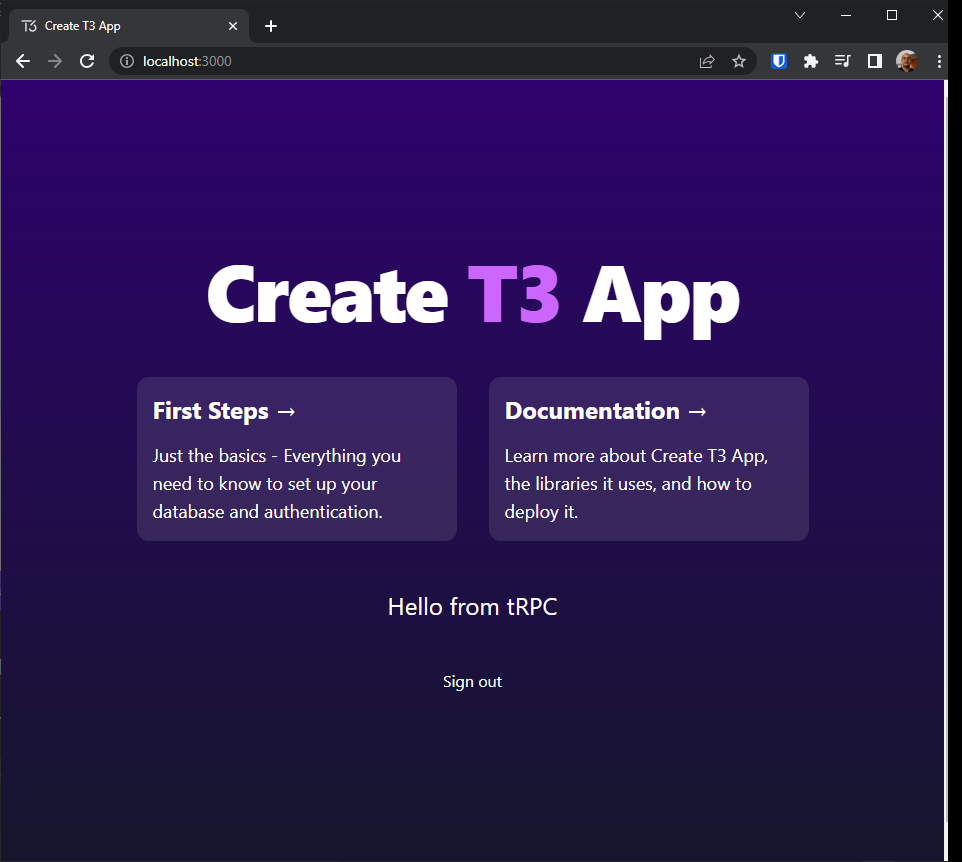
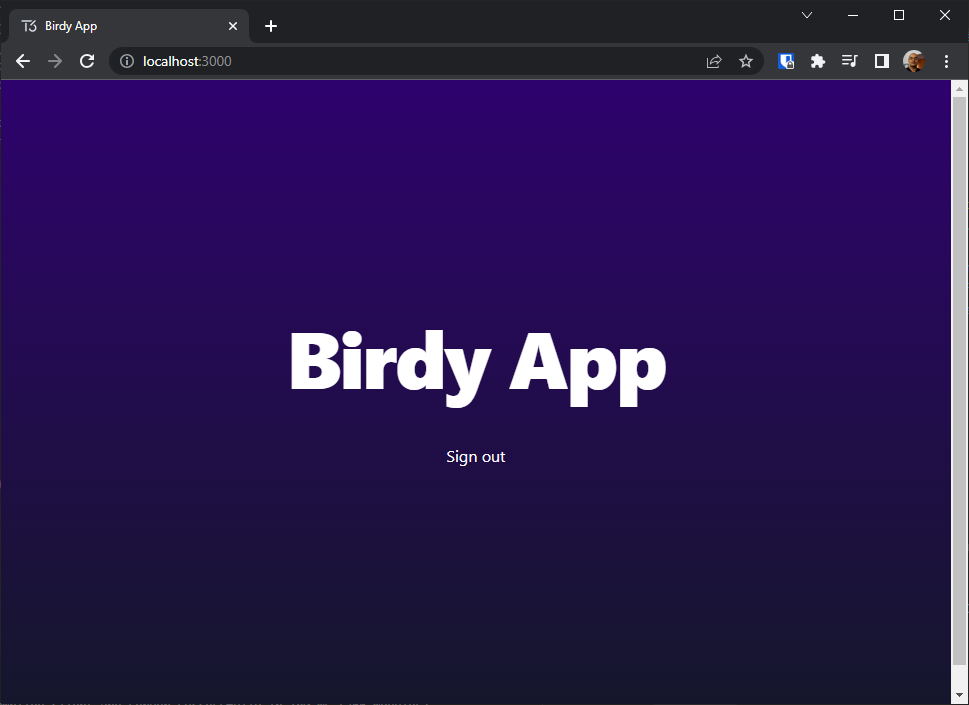
Simplify t3 tutorial part 2

diff --git a/content/posts/t3-tutorial-part-2/index.md b/content/posts/t3-tutorial-part-2/index.md
@@ -91,21 +91,35 @@ Then, open your browser and navigate to [https://localhost:3000](https://localho
 ## Adding a Sign Out button
 Now that our users can log into our app, lets give them a way to log out. 
 
-Open the **index.tsx** file (`C:\git\birdy\src\pages\index.tsx` in our example) and add this line to the top of the file.
+Open the **index.tsx** file (`C:\git\birdy\src\pages\index.tsx` in our example) and replace its content with this:
 ```typescript
 import { SignOutButton } from "@clerk/nextjs";
-```
-Then, paste these lines at the bottom of the page just before closing the last `div` inside the `main` section. 
-```typescript
-<div className="text-white">
-    <SignOutButton/>
-</div>
+import Head from "next/head";
+
+export default function Home() {
+  return (
+    <>
+      <Head>
+        <title>Birdy App</title>
+        <meta name="description" content="Birdy App" />
+        <link rel="icon" href="/favicon.ico" />
+      </Head>
+      <main className="flex min-h-screen justify-center bg-gradient-to-b from-[#2e026d] to-[#15162c]">
+        <div className="container flex flex-col items-center justify-center gap-12">
+          <h1 className="text-5xl font-extrabold tracking-tight text-white sm:text-[5rem]">
+            Birdy App
+          </h1>
+          <div className="text-white">
+            <SignOutButton/>
+          </div>
+        </div>
+      </main>
+    </>
+  );
+}
 ```
 
-This is how it looks in Visual Studio.
-![Clerk's sign out code](images/clerk-sign-out-code.png)
-
-Save your changes and reload the app's page in the browser. This should have put the **Sign off** button a the bottom of the page. Go ahead and click it to verify it does log you off.
+Save your changes and reload the app's page in the browser. You will see just a header and the **Sign out** button a the bottom of the page. Go ahead and click the **Sign out** button to verify it does log you off.
 ![Clerk's sign out button](images/clerk-sign-out-button.png)
 
 You can now close your app's local instance now by pressing `Ctrl + C` on the console where it is running, and save your changes to the repo with the following commands.
